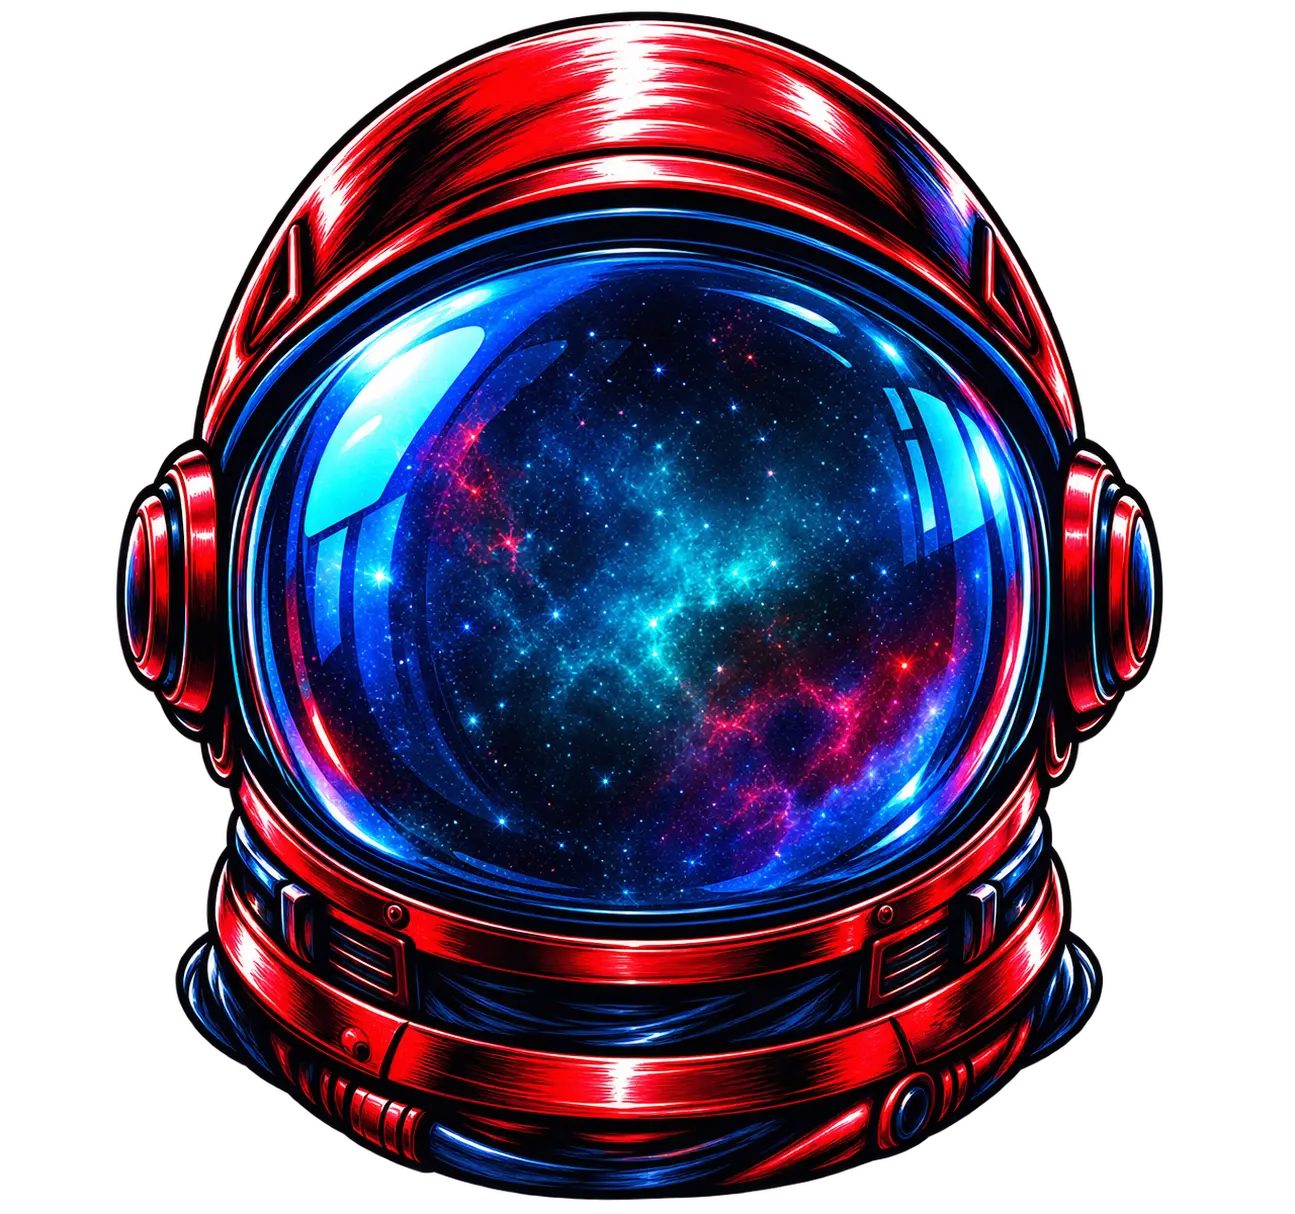
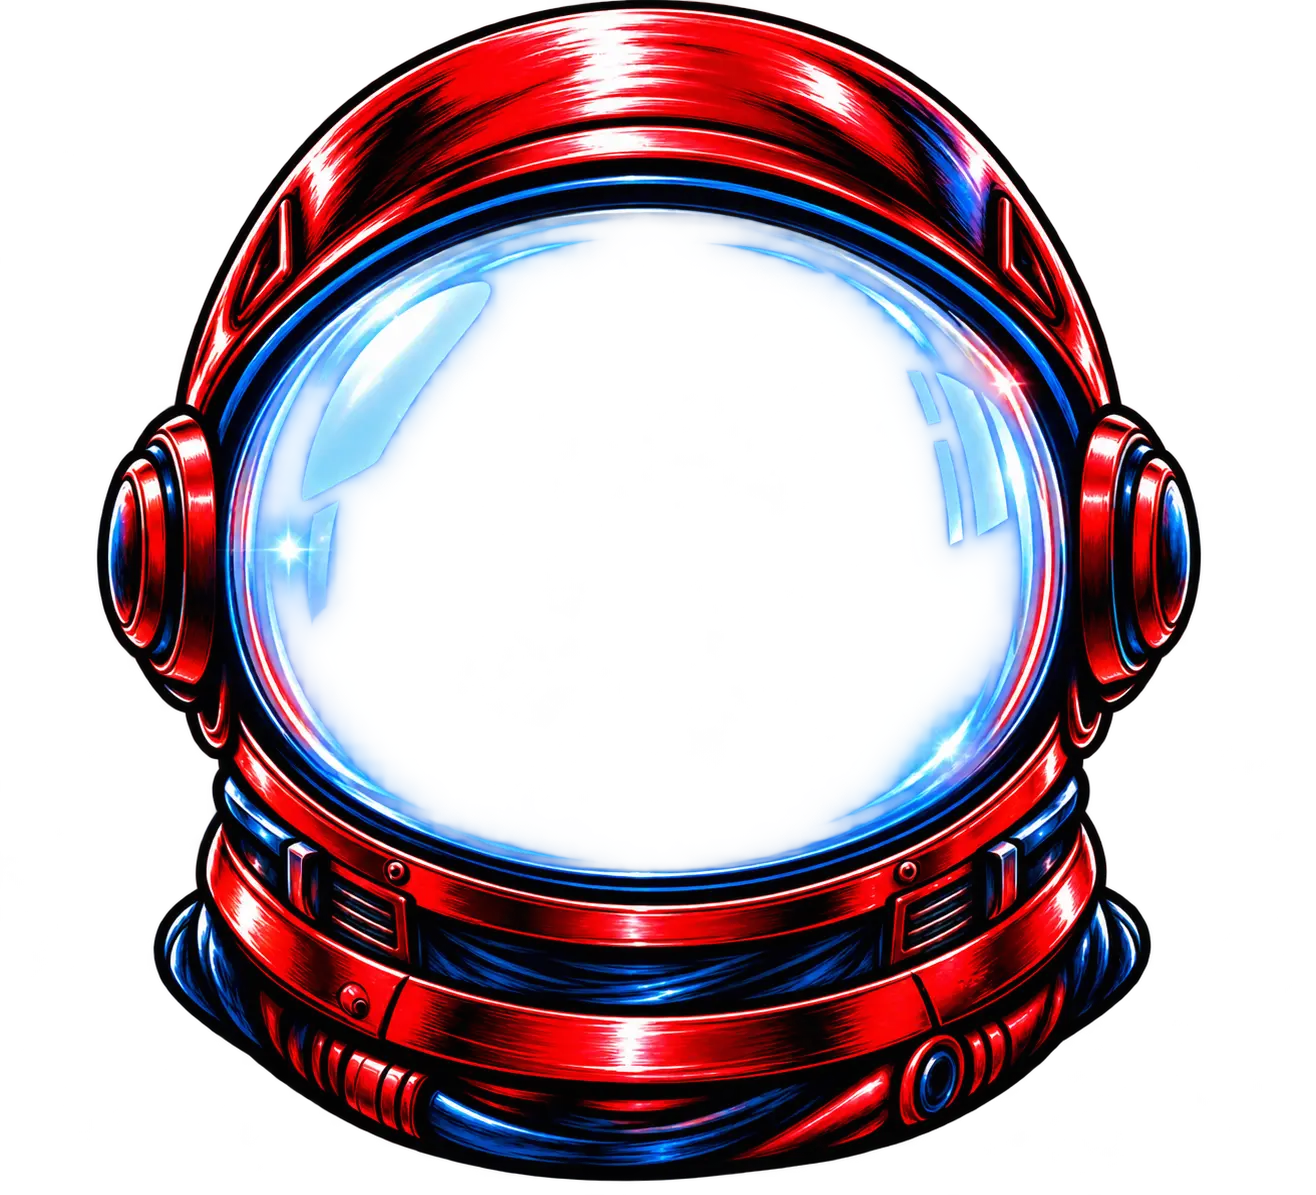
Refactor code structure for improved readability and maintainability

diff --git a/src/styles/global.css b/src/styles/global.css
@@ -10,8 +10,8 @@
 
 :root {
     --color-primary: #f7333f; 
-    --color-background: #f4f6f8;
-    --color-accent: #1f2937;
+    --color-background: #1f2937;
+    --color-accent: #f4f6f8;
 }
 
 html {
